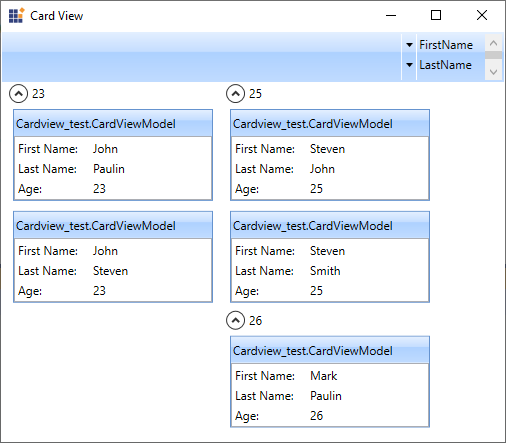
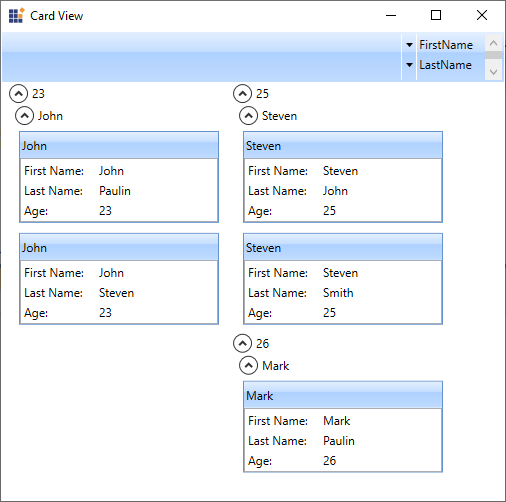
CardView UG

Changed region(s): [[0.0, 0.0, 1.0, 0.9684]]

diff --git a/wpf/Card-View/Grouping-Mode.md b/wpf/Card-View/Grouping-Mode.md
@@ -145,18 +145,19 @@ N> [View Sample in GitHub](https://github.com/SyncfusionExamples/syncfusion-wpf-
 
 ## Group the cards programmatically
 
-You can group the cards programmatically by passing the specific field name into the [GroupCards(String)](https://help.syncfusion.com/cr/wpf/Syncfusion.Windows.Tools.Controls.CardView.html#Syncfusion_Windows_Tools_Controls_CardView_GroupCards_System_String_) method. Based on the field name, cards are grouped programmatically.
+You can group the cards programmatically by passing the specific field name into the [GroupCards(String)](https://help.syncfusion.com/cr/wpf/Syncfusion.Windows.Tools.Controls.CardView.html#Syncfusion_Windows_Tools_Controls_CardView_GroupCards_System_String_) method. Based on the field name, cards are grouped programmatically. You can also make the multi-level grouping programmatically.
 
 {% tabs %}
 {% highlight c# %}
 
 cardView.CanGroup = true;
 cardView.GroupCards("Age");
+cardView.GroupCards("FirstName");
 
 {% endhighlight %}
 {% endtabs %}
 
-Here, the cards are grouped programmatically based on the `Age` field.
+Here, the cards are grouped programmatically based on the `Age` and `FirstName` fields.
 
 ![wpf card view items grouped programmatically](Grouping-Sorting-Filtering_images/porgrammaticgrouping.png)
 

diff --git a/wpf/Card-View/Filtering-Mode.md b/wpf/Card-View/Filtering-Mode.md
@@ -13,7 +13,7 @@ This section describes how to enable or disable the filtering mode and perform f
 
 ## Filter the CardViewItems
 
-Cards can be filtered by the values which are given for the fields. To filter the cards, just check the values in the listed popup that opens when you click the button which is available in front of the fields list.
+Cards can be filtered by the values which are given for the fields. To filter the cards, just check the values that is listed in the popup.
 
 {% tabs %}
 {% highlight c# %}
